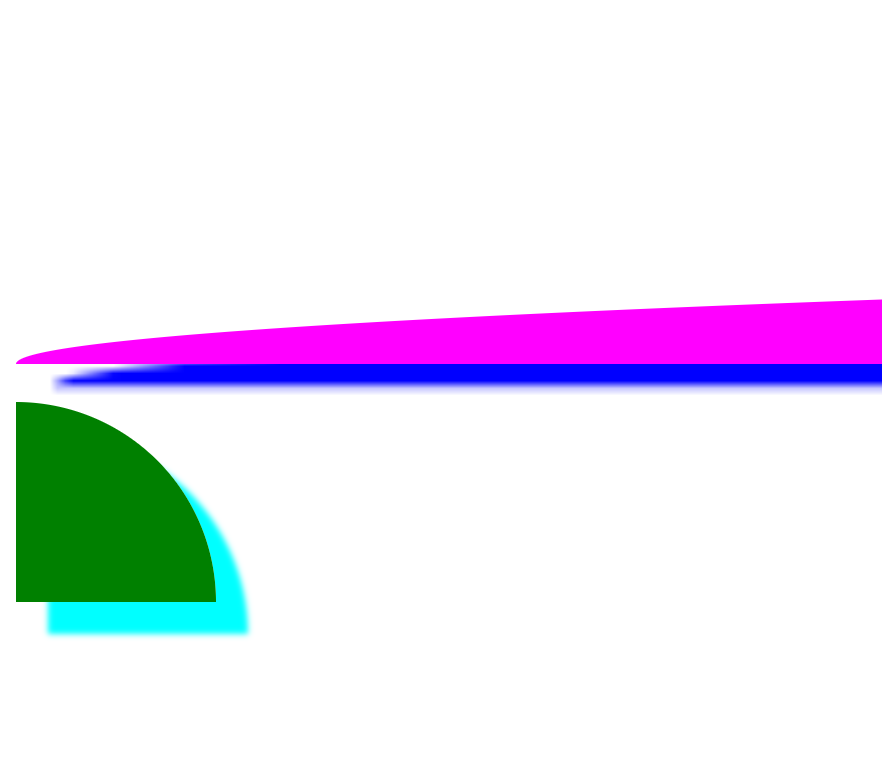
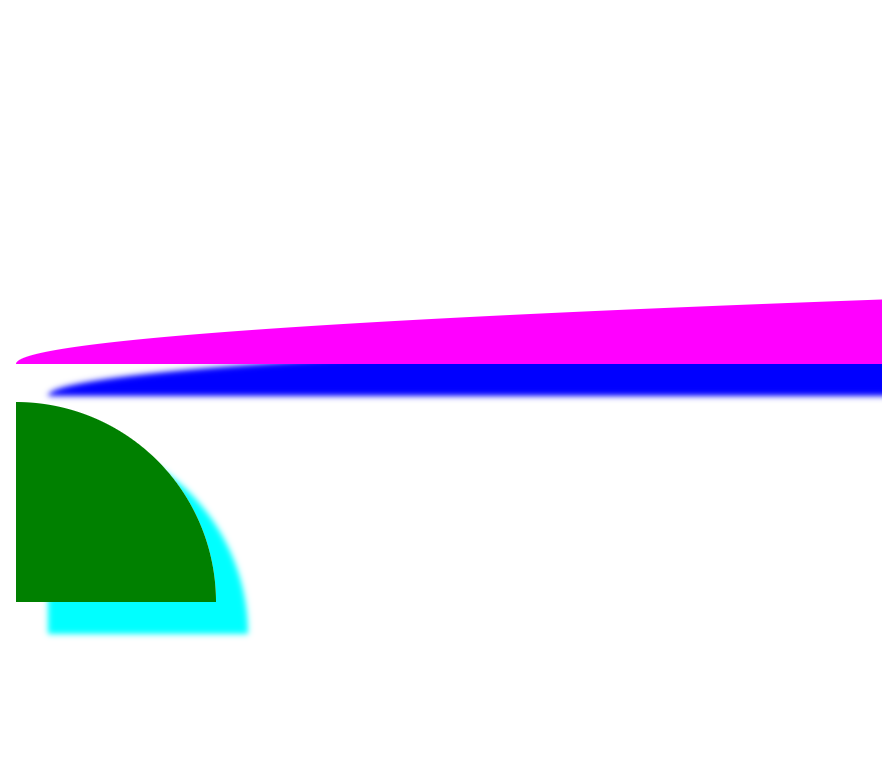
Bug 1917493 - Enable quad box shadows on a subset of outset box-shadows r=gfx-reviewers,nical
We'll incrementally enable it on a wider range of content once we
resolve the unrelated pre-existing timing-related intermittent failures
that are tickled by these changes.

Differential Revision: https://phabricator.services.mozilla.com/D221413

Changed region(s): [[0.0306, 0.4627, 1.0, 0.5244]]

diff --git a/gfx/wr/webrender/src/prepare.rs b/gfx/wr/webrender/src/prepare.rs
@@ -11,12 +11,13 @@ use api::{BoxShadowClipMode, BorderStyle, ClipMode};
 use api::units::*;
 use euclid::Scale;
 use smallvec::SmallVec;
+use crate::box_shadow::BoxShadowSegment;
 use crate::composite::CompositorSurfaceKind;
 use crate::command_buffer::{CommandBufferIndex, PrimitiveCommand};
 use crate::image_tiling::{self, Repetition};
 use crate::border::{get_max_scale_for_border, build_border_instances};
-use crate::clip::{ClipStore, ClipNodeRange};
-use crate::pattern::Pattern;
+use crate::clip::{ClipNodeRange, ClipStore};
+use crate::pattern::{Pattern, SolidColorSegment};
 use crate::spatial_tree::{SpatialNodeIndex, SpatialTree};
 use crate::clip::{ClipDataStore, ClipNodeFlags, ClipChainInstance, ClipItemKind};
 use crate::frame_builder::{FrameBuildingContext, FrameBuildingState, PictureContext, PictureState};
@@ -324,21 +325,164 @@ fn prepare_interned_prim_for_render(
         PrimitiveInstanceKind::BoxShadow { data_handle } => {
             let prim_data = &mut data_stores.box_shadow[*data_handle];
 
-            quad::prepare_quad(
-                prim_data,
-                &prim_data.kind.outer_shadow_rect,
-                prim_instance_index,
-                prim_spatial_node_index,
-                &prim_instance.vis.clip_chain,
-                device_pixel_scale,
-                frame_context,
-                pic_context,
-                targets,
-                &data_stores.clip,
-                frame_state,
-                pic_state,
-                scratch,
-            );
+            // If there isn't an inner shadow rect, draw as a single primitive
+            if prim_data.kind.inner_shadow_rect.is_empty() {
+                quad::prepare_quad(
+                    prim_data,
+                    &prim_data.kind.outer_shadow_rect,
+                    prim_instance_index,
+                    prim_spatial_node_index,
+                    &prim_instance.vis.clip_chain,
+                    device_pixel_scale,
+                    frame_context,
+                    pic_context,
+                    targets,
+                    &data_stores.clip,
+                    frame_state,
+                    pic_state,
+                    scratch,
+                );
+            } else {
+                // If we have an inner shadow rect, draw that as a solid color
+                // segment, and box-shadow segments for the outer segments
+                let dirty_world_rect = frame_state.current_dirty_region().combined;
+
+                let inner_segment = SolidColorSegment {
+                    color: prim_data.kind.color,
+                };
+
+                quad::prepare_quad(
+                    &inner_segment,
+                    &prim_data.kind.inner_shadow_rect,
+                    prim_instance_index,
+                    prim_spatial_node_index,
+                    &prim_instance.vis.clip_chain,
+                    device_pixel_scale,
+                    frame_context,
+                    pic_context,
+                    targets,
+                    &data_stores.clip,
+                    frame_state,
+                    pic_state,
+                    scratch,
+                );
+
+                let p0 = prim_data.kind.outer_shadow_rect.min;
+                let p1 = prim_data.kind.inner_shadow_rect.min;
+                let p3 = prim_data.kind.outer_shadow_rect.max;
+                let p2 = prim_data.kind.inner_shadow_rect.max;
+
+                let outer_rects = [
+                    // Corners
+                    LayoutRect::new(
+                        LayoutPoint::new(p0.x, p0.y),
+                        LayoutPoint::new(p1.x, p1.y),
+                    ),
+                    LayoutRect::new(
+                        LayoutPoint::new(p2.x, p0.y),
+                        LayoutPoint::new(p3.x, p1.y),
+                    ),
+                    LayoutRect::new(
+                        LayoutPoint::new(p2.x, p2.y),
+                        LayoutPoint::new(p3.x, p3.y),
+                    ),
+                    LayoutRect::new(
+                        LayoutPoint::new(p0.x, p2.y),
+                        LayoutPoint::new(p1.x, p3.y),
+                    ),
+
+                    // Top + Bottom
+                    LayoutRect::new(
+                        LayoutPoint::new(p1.x, p0.y),
+                        LayoutPoint::new(p2.x, p1.y),
+                    ),
+                    LayoutRect::new(
+                        LayoutPoint::new(p1.x, p2.y),
+                        LayoutPoint::new(p2.x, p3.y),
+                    ),
+
+                    // Left + Right
+                    LayoutRect::new(
+                        LayoutPoint::new(p0.x, p1.y),
+                        LayoutPoint::new(p1.x, p2.y),
+                    ),
+                    LayoutRect::new(
+                        LayoutPoint::new(p2.x, p1.y),
+                        LayoutPoint::new(p3.x, p2.y),
+                    ),
+                ];
+
+                for (i, rect) in outer_rects.iter().enumerate() {
+                    // Edge (non-corner) segments are the same across the
+                    // entire axis, so we can draw a small portion of them
+                    // and stretch when drawing the segment, to reduce
+                    // number of blurred pixels, which is important for swgl.
+                    let fixed_size = 4.0;
+
+                    let pattern_rect = match i {
+                        0 ..= 3 => *rect,
+                        4 ..= 5 => {
+                            LayoutRect::new(
+                                rect.min,
+                                LayoutPoint::new(rect.min.x + fixed_size, rect.max.y),
+                            )
+                        },
+                        6 ..= 7 => {
+                            LayoutRect::new(
+                                rect.min,
+                                LayoutPoint::new(rect.max.x, rect.min.y + fixed_size),
+                            )
+                        }
+                        _ => unreachable!(),
+                    };
+
+                    let shadow_segment = BoxShadowSegment {
+                        color: prim_data.kind.color,
+                        blur_radius: prim_data.kind.blur_radius,
+                        clip: prim_data.kind.clip,
+                        pattern_rect,
+                    };
+
+                    frame_state.clip_store.set_active_clips_from_clip_chain(
+                        &prim_instance.vis.clip_chain,
+                        prim_spatial_node_index,
+                        &frame_context.spatial_tree,
+                        &data_stores.clip,
+                    );
+
+                    if let Some(segment_clip_chain) = frame_state
+                        .clip_store
+                        .build_clip_chain_instance(
+                            *rect,
+                            &pic_state.map_local_to_pic,
+                            &pic_state.map_pic_to_world,
+                            &frame_context.spatial_tree,
+                            frame_state.gpu_cache,
+                            frame_state.resource_cache,
+                            device_pixel_scale,
+                            &dirty_world_rect,
+                            &mut data_stores.clip,
+                            frame_state.rg_builder,
+                            false,
+                        ) {
+                            quad::prepare_quad(
+                                &shadow_segment,
+                                rect,
+                                prim_instance_index,
+                                prim_spatial_node_index,
+                                &segment_clip_chain,
+                                device_pixel_scale,
+                                frame_context,
+                                pic_context,
+                                targets,
+                                &data_stores.clip,
+                                frame_state,
+                                pic_state,
+                                scratch,
+                            );
+                    }
+                }
+            }
 
             return;
         }

diff --git a/gfx/wr/webrender/src/box_shadow.rs b/gfx/wr/webrender/src/box_shadow.rs
@@ -405,8 +405,7 @@ impl<'a> SceneBuilder<'a> {
             // box-shadow support will be added to this path as a follow up.
             if is_root_coord_system &&
                clip_mode == BoxShadowClipMode::Outset &&
-               blur_radius < 32.0 &&
-               false {
+               blur_radius < 32.0 {
                 // Make sure corners don't overlap.
                 ensure_no_corner_overlap(&mut shadow_radius, shadow_rect.size());
 
@@ -446,7 +445,7 @@ impl<'a> SceneBuilder<'a> {
 
                 let inner_shadow_rect = shadow_rect.inflate(-sig3, -sig3);
                 let outer_shadow_rect = shadow_rect.inflate( sig3,  sig3);
-                let inner_shadow_rect = extract_inner_rect_k(&inner_shadow_rect, &shadow_radius, 0.5).unwrap_or(LayoutRect::zero());
+                let inner_shadow_rect = extract_inner_rect_k(&inner_shadow_rect, &shadow_radius, 1.0).unwrap_or(LayoutRect::zero());
 
                 let prim = BoxShadow {
                     color: color.into(),
@@ -579,5 +578,106 @@ fn adjust_radius_for_box_shadow(border_radius: f32, spread_amount: f32) -> f32 {
         (border_radius + spread_amount).max(0.0)
     } else {
         0.0
+    }
+}
+
+pub struct BoxShadowSegment {
+    pub color: ColorF,
+    pub blur_radius: f32,
+    pub clip: ClipDataHandle,
+    pub pattern_rect: LayoutRect,
+}
+
+impl PatternBuilder for BoxShadowSegment {
+    fn build(
+        &self,
+        _sub_rect: Option<DeviceRect>,
+        ctx: &crate::pattern::PatternBuilderContext,
+        state: &mut crate::pattern::PatternBuilderState,
+    ) -> Pattern {
+        let raster_spatial_node_index = ctx.spatial_tree.root_reference_frame_index();
+
+        let task_size = self.pattern_rect.size().ceil().cast_unit().to_i32();
+        let content_origin = self.pattern_rect.min.cast_unit();
+        let scale_factor = DevicePixelScale::new(1.0);
+        let uv_rect_kind = UvRectKind::Rect;
+
+        let blur_radius = self.blur_radius * scale_factor.0;
+        let clips_range = state.clip_store.push_clip_instance(self.clip);
+        let color_pattern = Pattern::color(self.color);
+
+        let pattern_prim_address_f = quad::write_prim_blocks(
+            &mut state.frame_gpu_data.f32,
+            self.pattern_rect,
+            self.pattern_rect,
+            color_pattern.base_color,
+            color_pattern.texture_input.task_id,
+            &[],
+            ScaleOffset::identity(),
+        );
+
+        let pattern_task_id = state.rg_builder.add().init(RenderTask::new_dynamic(
+            task_size,
+            RenderTaskKind::Prim(PrimTask {
+                pattern: color_pattern.kind,
+                pattern_input: color_pattern.shader_input,
+                raster_spatial_node_index,
+                device_pixel_scale: DevicePixelScale::new(1.0),
+                content_origin,
+                prim_address_f: pattern_prim_address_f,
+                transform_id: TransformPaletteId::IDENTITY,
+                edge_flags: EdgeAaSegmentMask::empty(),
+                quad_flags: QuadFlags::APPLY_RENDER_TASK_CLIP | QuadFlags::IGNORE_DEVICE_PIXEL_SCALE,
+                prim_needs_scissor_rect: false,
+                texture_input: color_pattern.texture_input.task_id,
+            }),
+        ));
+
+        let masks = MaskSubPass {
+            clip_node_range: clips_range,
+            prim_spatial_node_index: raster_spatial_node_index,
+            prim_address_f: pattern_prim_address_f,
+        };
+
+        let task = state.rg_builder.get_task_mut(pattern_task_id);
+        task.add_sub_pass(SubPass::Masks { masks });
+
+        let blur_task_v = state.rg_builder.add().init(RenderTask::new_dynamic(
+            task_size,
+            RenderTaskKind::VerticalBlur(BlurTask {
+                blur_std_deviation: blur_radius,
+                target_kind: RenderTargetKind::Color,
+                blur_region: task_size,
+            }),
+        ));
+        state.rg_builder.add_dependency(blur_task_v, pattern_task_id);
+
+        let blur_task_h = state.rg_builder.add().init(RenderTask::new_dynamic(
+            task_size,
+            RenderTaskKind::HorizontalBlur(BlurTask {
+                blur_std_deviation: blur_radius,
+                target_kind: RenderTargetKind::Color,
+                blur_region: task_size,
+            }),
+        ).with_uv_rect_kind(uv_rect_kind));
+        state.rg_builder.add_dependency(blur_task_h, blur_task_v);
+
+        Pattern::texture(
+            blur_task_h,
+            self.color,
+        )
+    }
+
+    fn get_base_color(
+        &self,
+        _ctx: &crate::pattern::PatternBuilderContext,
+    ) -> ColorF {
+        self.color
+    }
+
+    fn use_shared_pattern(
+        &self,
+    ) -> bool {
+        false
     }
 }

diff --git a/gfx/wr/webrender/src/pattern.rs b/gfx/wr/webrender/src/pattern.rs
@@ -142,3 +142,33 @@ impl Pattern {
         }
     }
 }
+
+// A reusable pattern builder for a segment of a larger primitive that can be
+// drawn as a solid color
+pub struct SolidColorSegment {
+    pub color: ColorF,
+}
+
+impl PatternBuilder for SolidColorSegment {
+    fn build(
+        &self,
+        _sub_rect: Option<DeviceRect>,
+        _ctx: &crate::pattern::PatternBuilderContext,
+        _state: &mut crate::pattern::PatternBuilderState,
+    ) -> Pattern {
+        Pattern::color(self.color)
+    }
+
+    fn get_base_color(
+        &self,
+        _ctx: &crate::pattern::PatternBuilderContext,
+    ) -> ColorF {
+        self.color
+    }
+
+    fn use_shared_pattern(
+        &self,
+    ) -> bool {
+        true
+    }
+}
